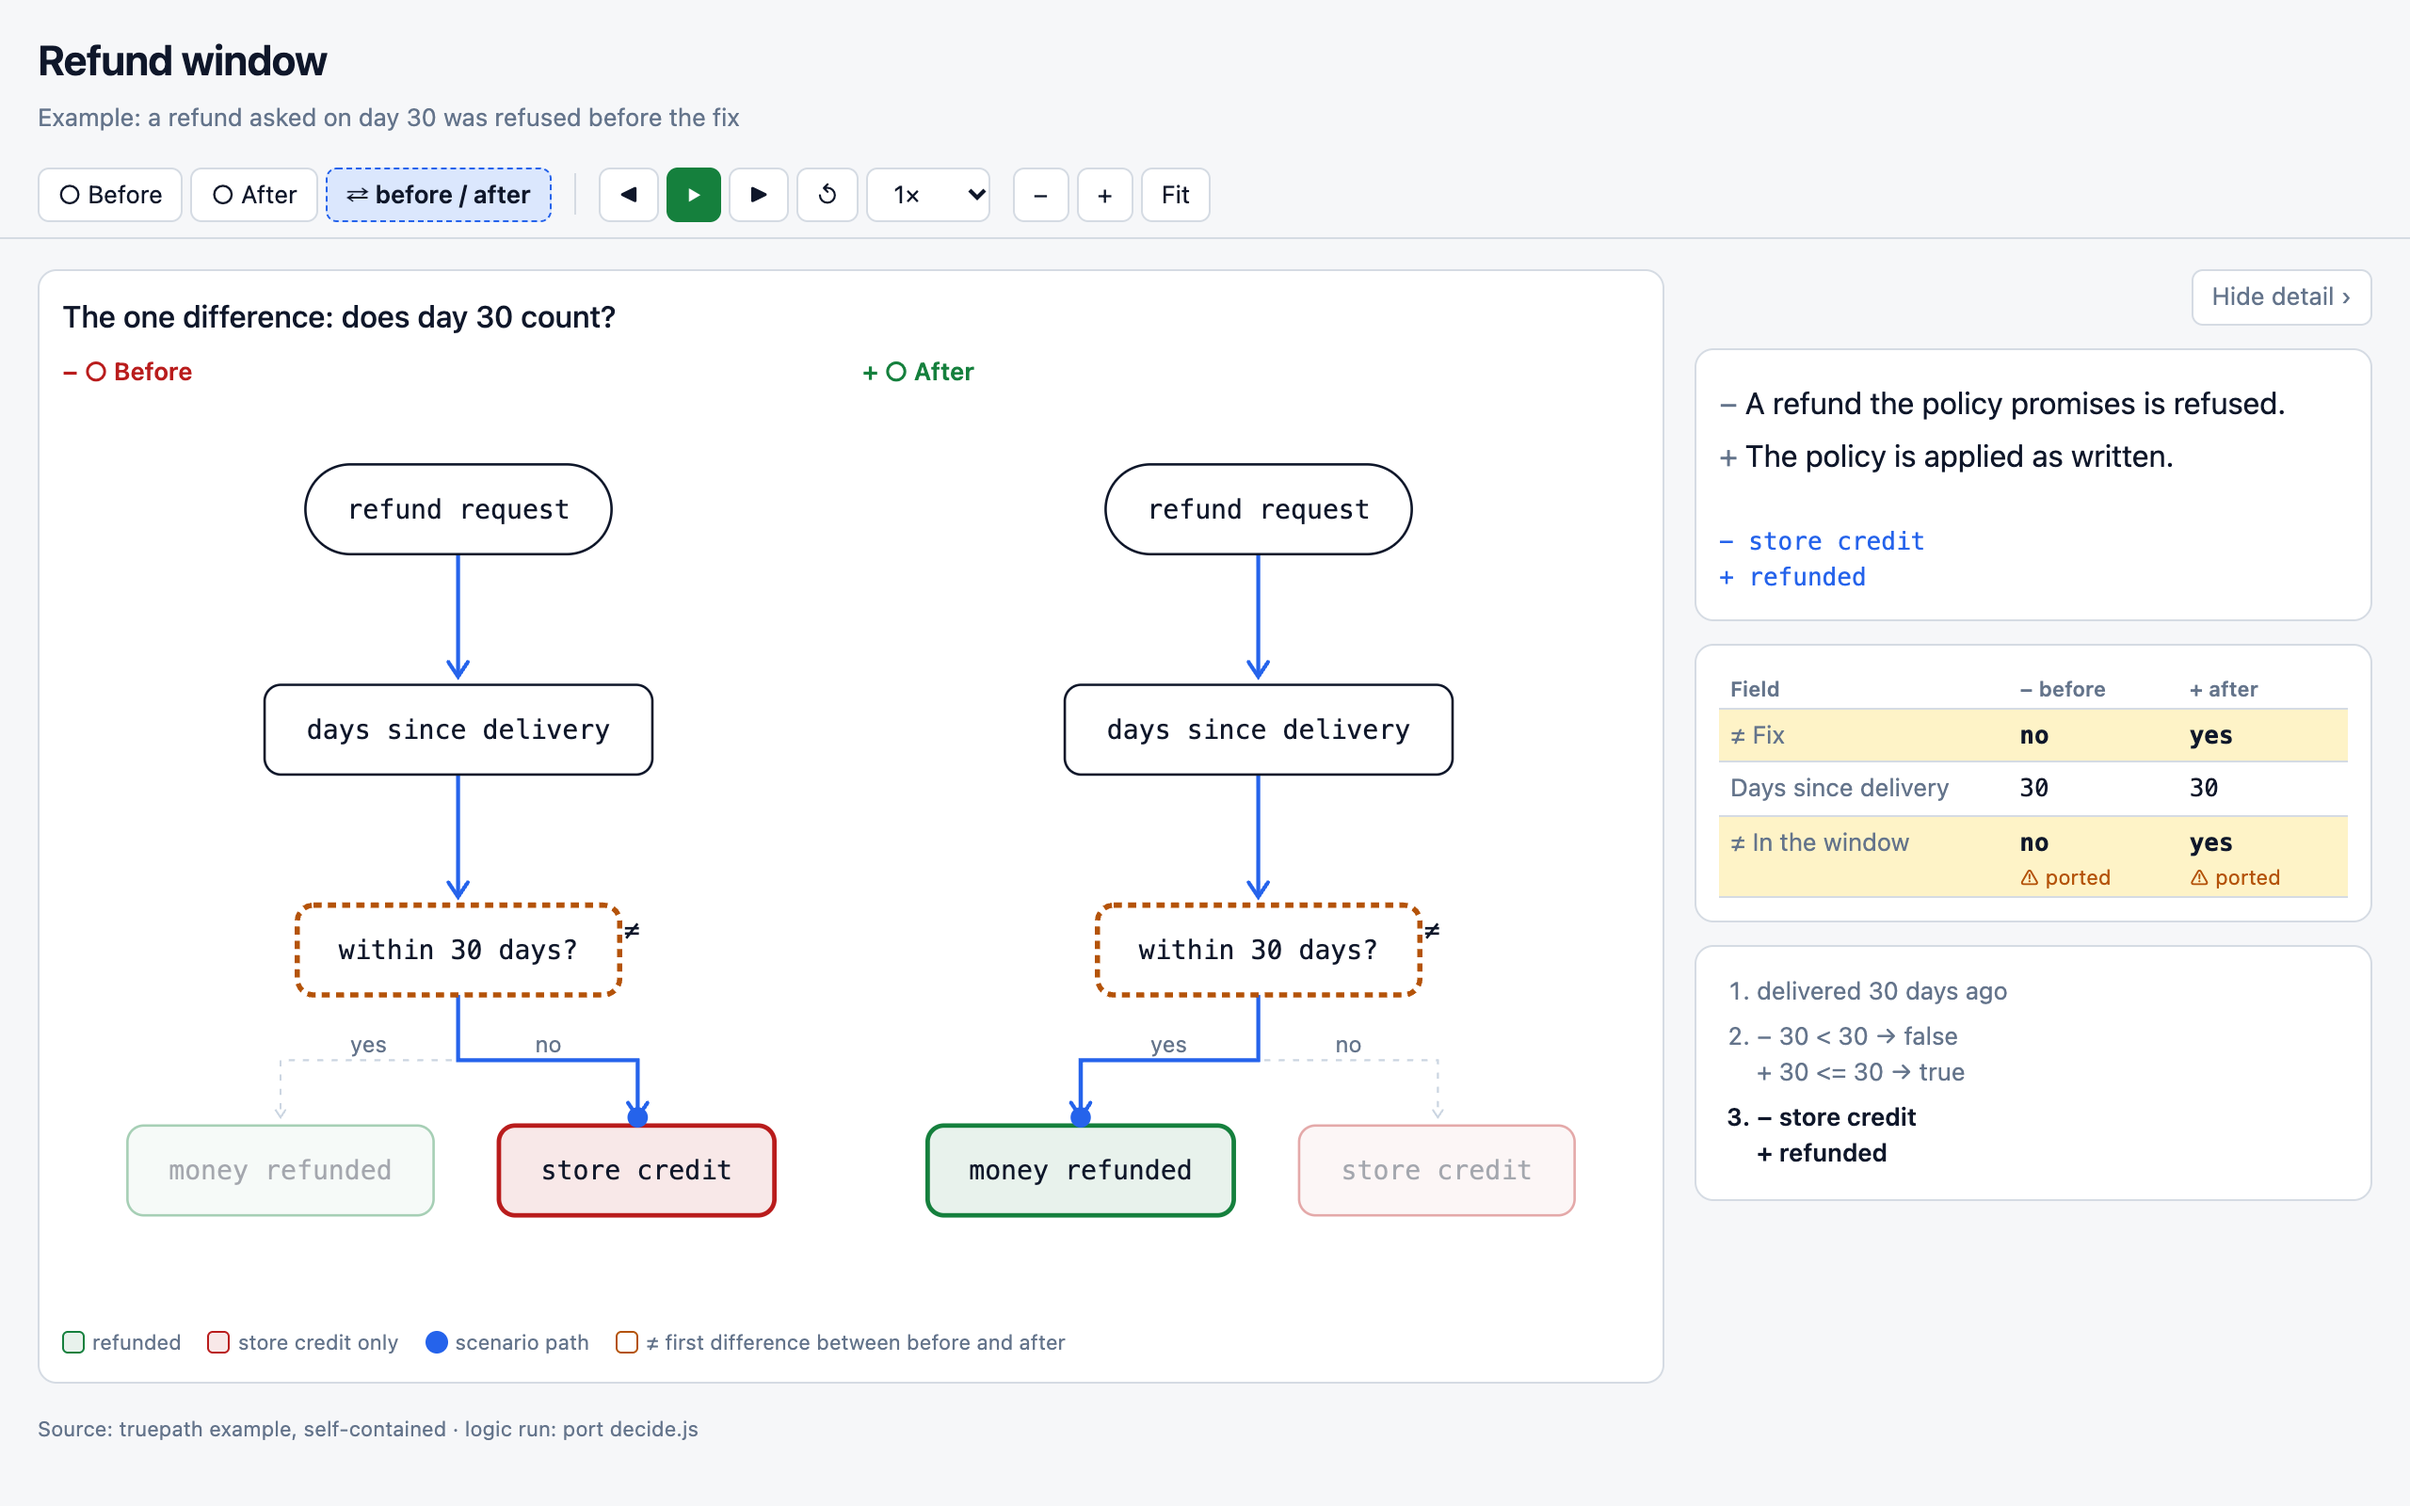
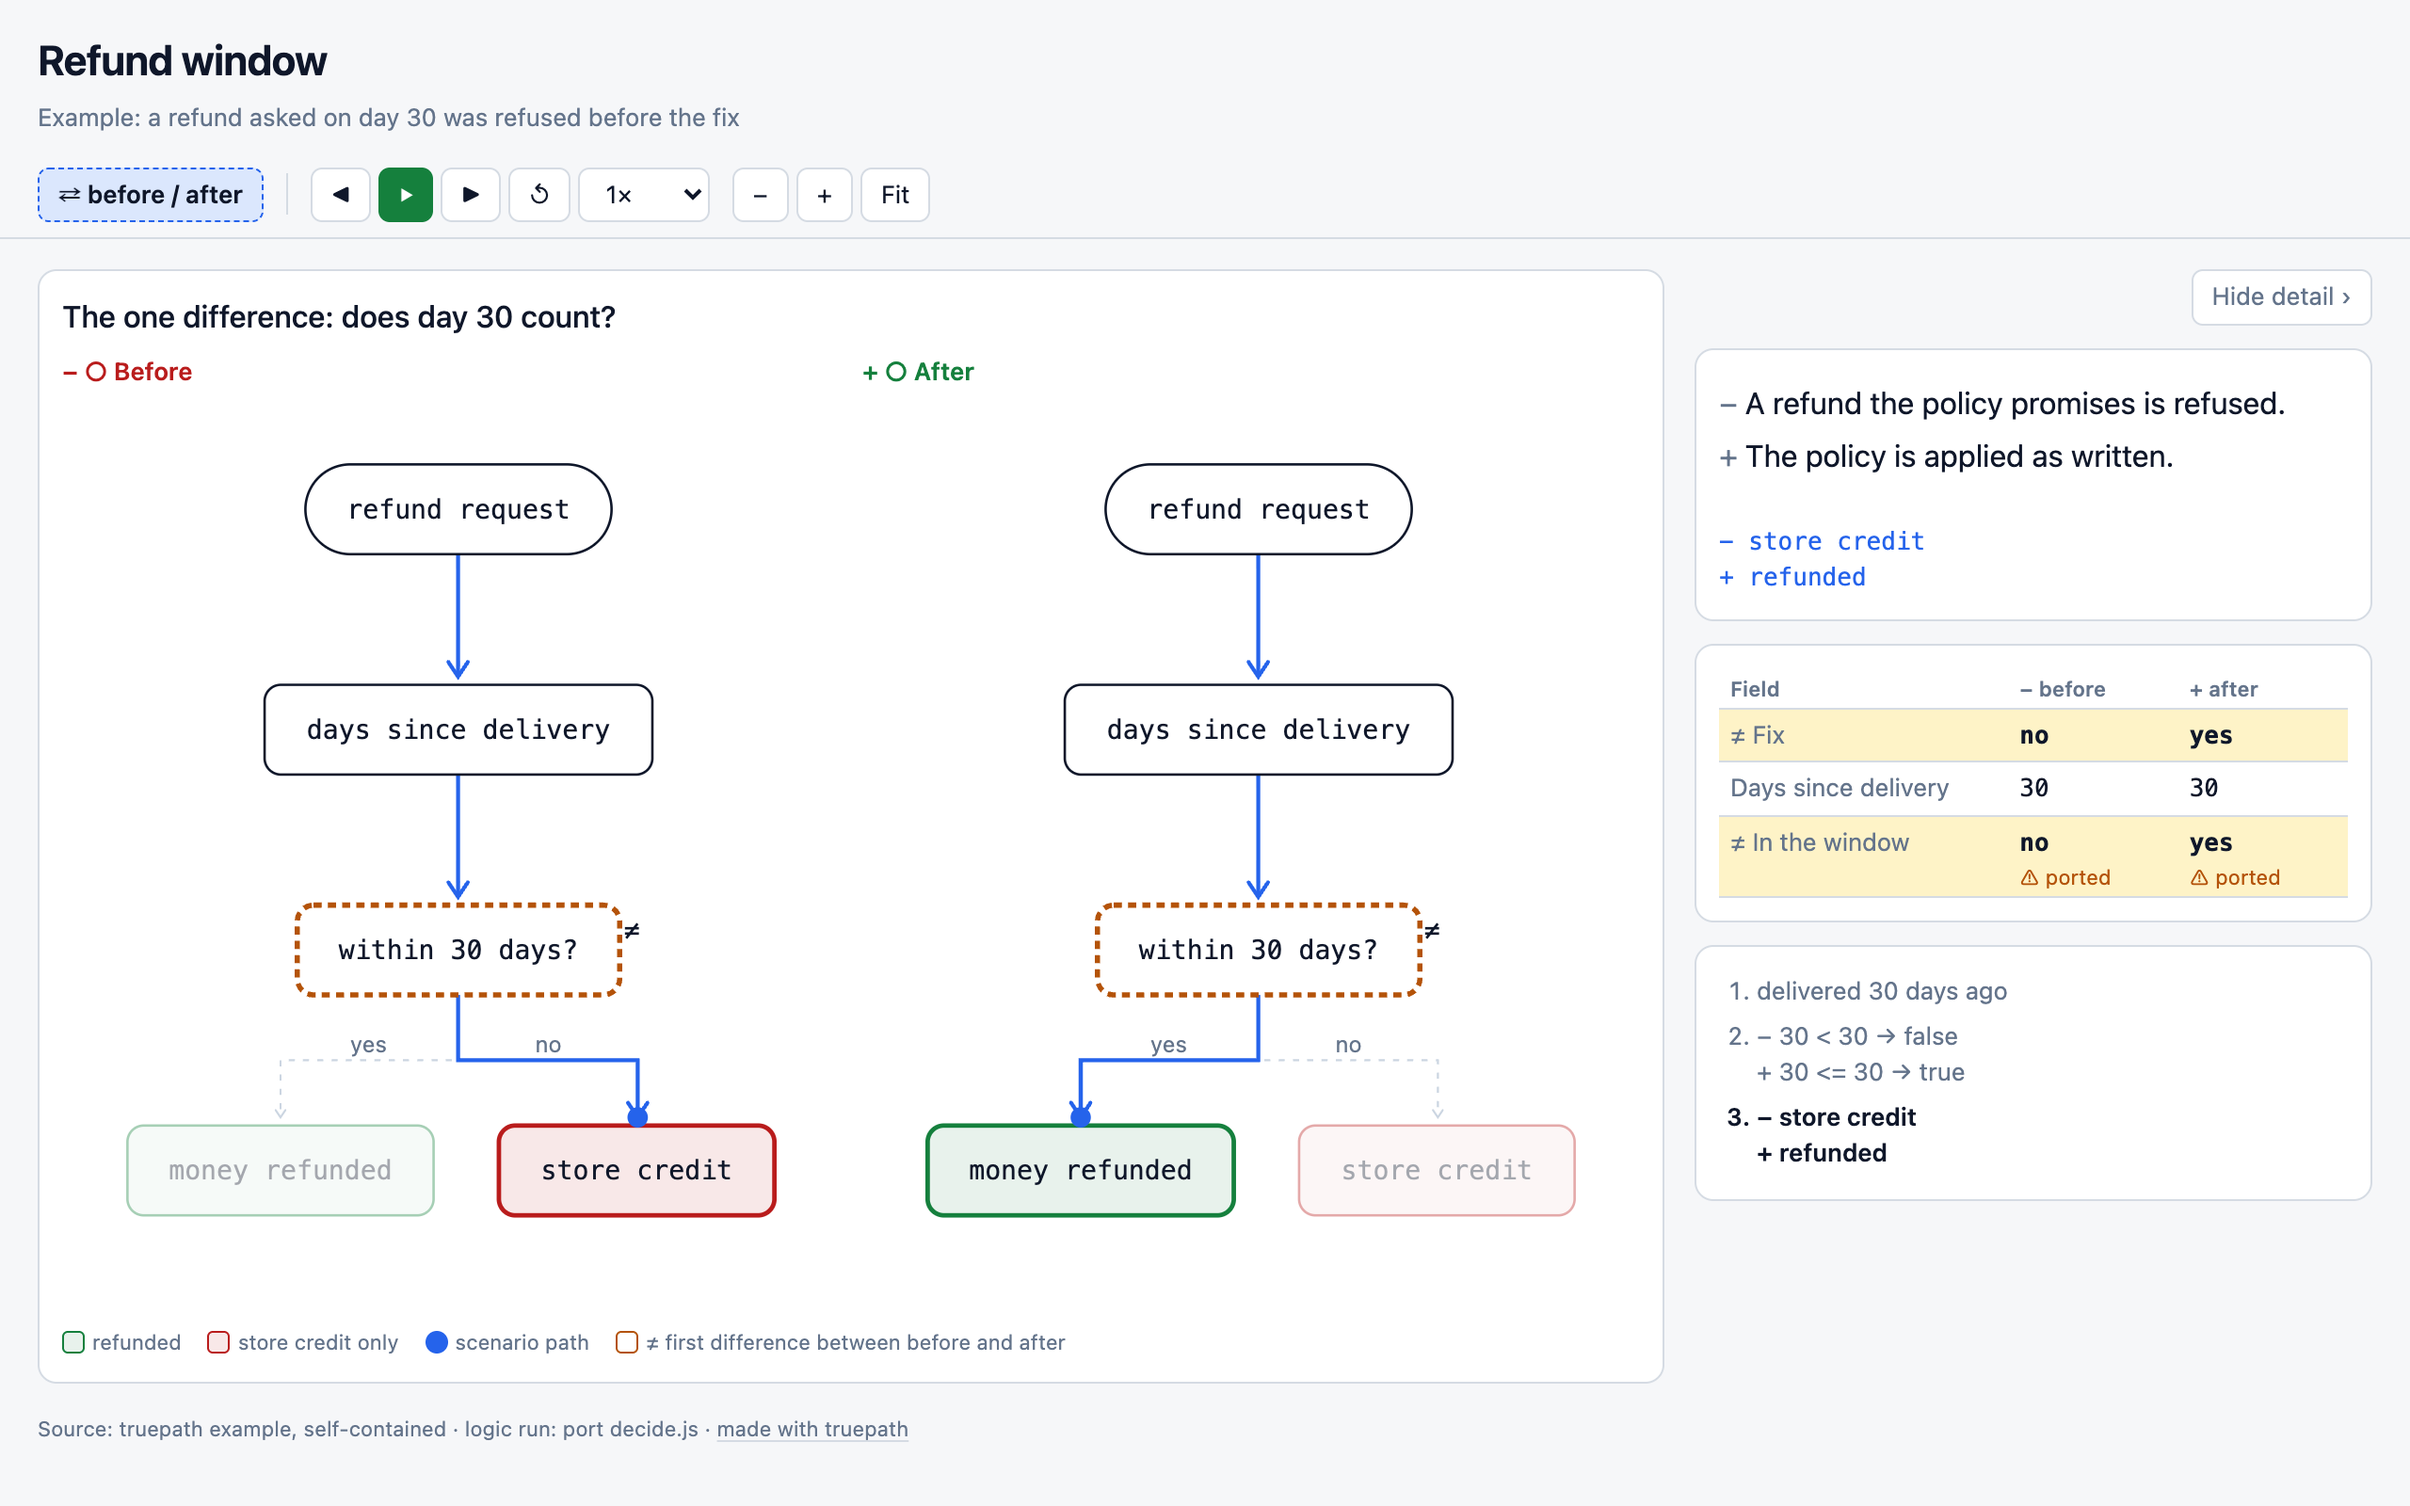
truepath 0.1.1: the README opens on the grid in motion, both pictures retaken

diff --git a/plugins/truepath/README.md b/plugins/truepath/README.md
@@ -2,6 +2,10 @@
 
 [![ci](https://github.com/bastien-gallay/truepath/actions/workflows/ci.yml/badge.svg)](https://github.com/bastien-gallay/truepath/actions/workflows/ci.yml)
 
+![The free-shipping grid: the matrix of cases against answers, then a click
+on a cell that differs plays that case, today next to the answer
+](docs/free-shipping.gif)
+
 An agent skill that turns a process, a bug path or a rule under discussion
 into one self-contained HTML page: a dot walks the real path through the
 graph, a data panel shows what changes at each step, and two scenarios play
@@ -11,10 +15,6 @@ What makes it more than an animation: the verdicts come from your
 repository's own code, run on a frozen `git archive` of a ref, or from a
 declared port of it. The build checks every scenario against them and
 writes nothing if one disagrees.
-
-![A before/after pair: the same refund request refused on the left, granted
-on the right, the decision where they part outlined
-](docs/refund-window.png)
 
 ```text
 spec.json ──┐
@@ -89,9 +89,9 @@ clone of this repository, not from a bare copy of the folder.
 The page opens paused, the play button green; the diagram zooms and pans,
 and once zoomed the view follows the dot.
 
-![The free-shipping grid: the matrix of cases against answers, then a click
-on a cell that differs plays that case, today next to the answer
-](docs/free-shipping.gif)
+![A before/after pair: the same refund request refused on the left, granted
+on the right, the decision where they part outlined
+](docs/refund-window.png)
 
 The full contract is in [`skills/truepath/SKILL.md`](skills/truepath/SKILL.md).
 

diff --git a/plugins/truepath/CHANGELOG.md b/plugins/truepath/CHANGELOG.md
@@ -29,6 +29,7 @@
     the same path is a table, not a page.
   - What `oracle.files` brings is named in the footer after the ref, so code
     from the spec is no longer shown as the ref's code.
+  - The README opens on the grid in motion; both pictures are retaken.
 
 ## 0.1.0
 
